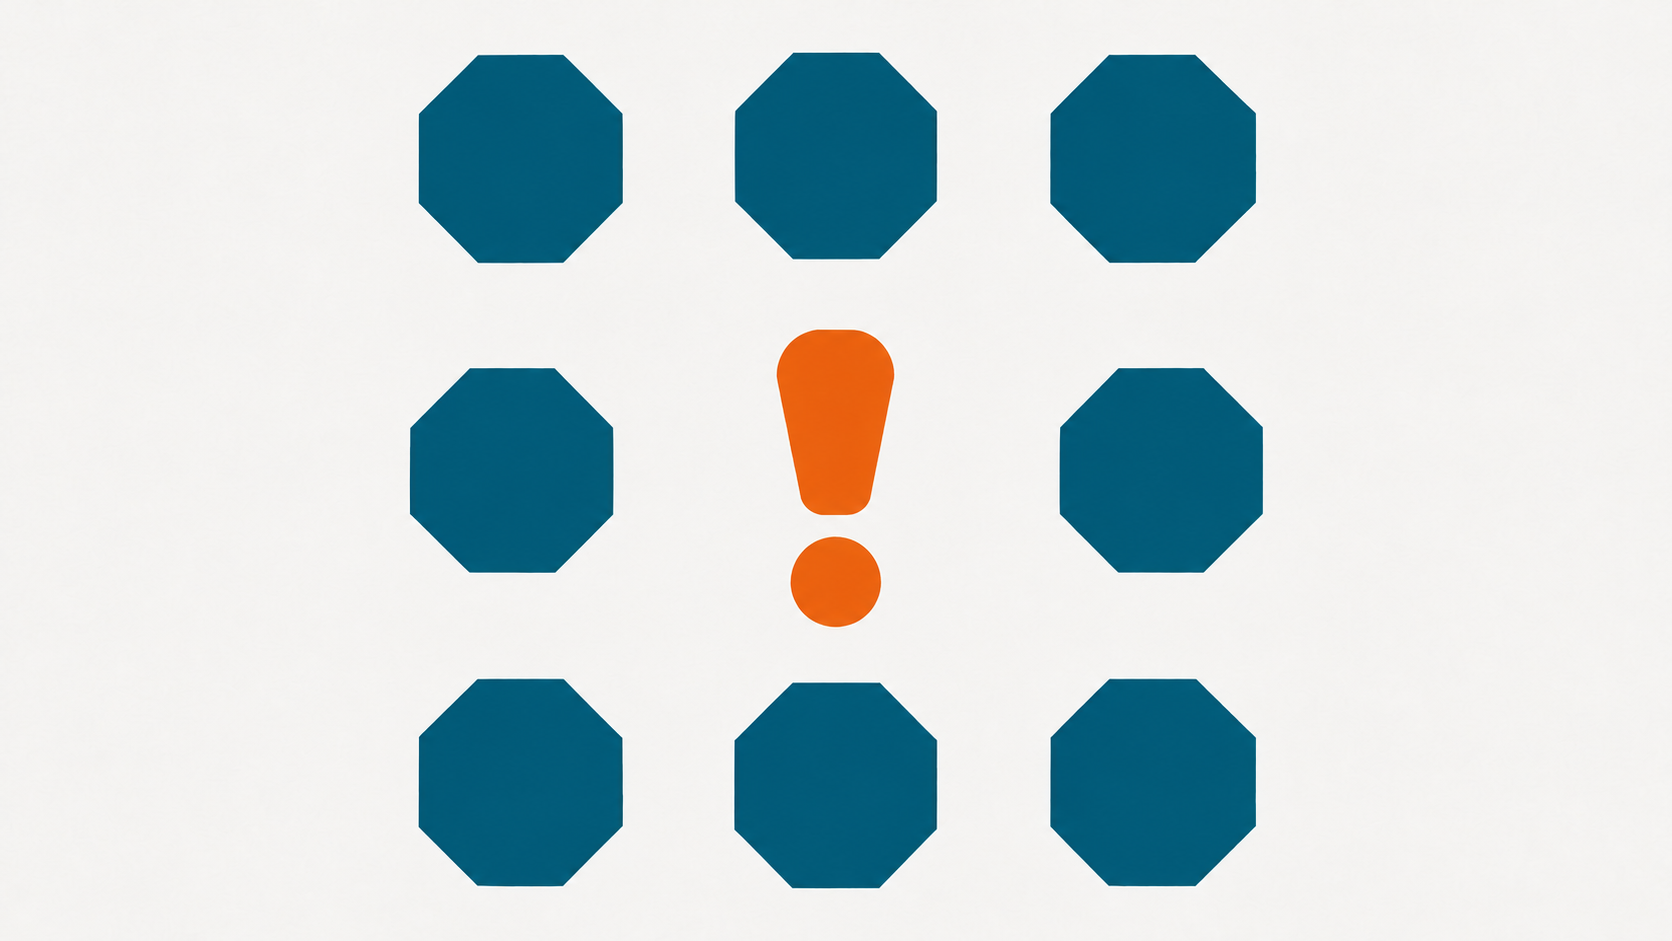
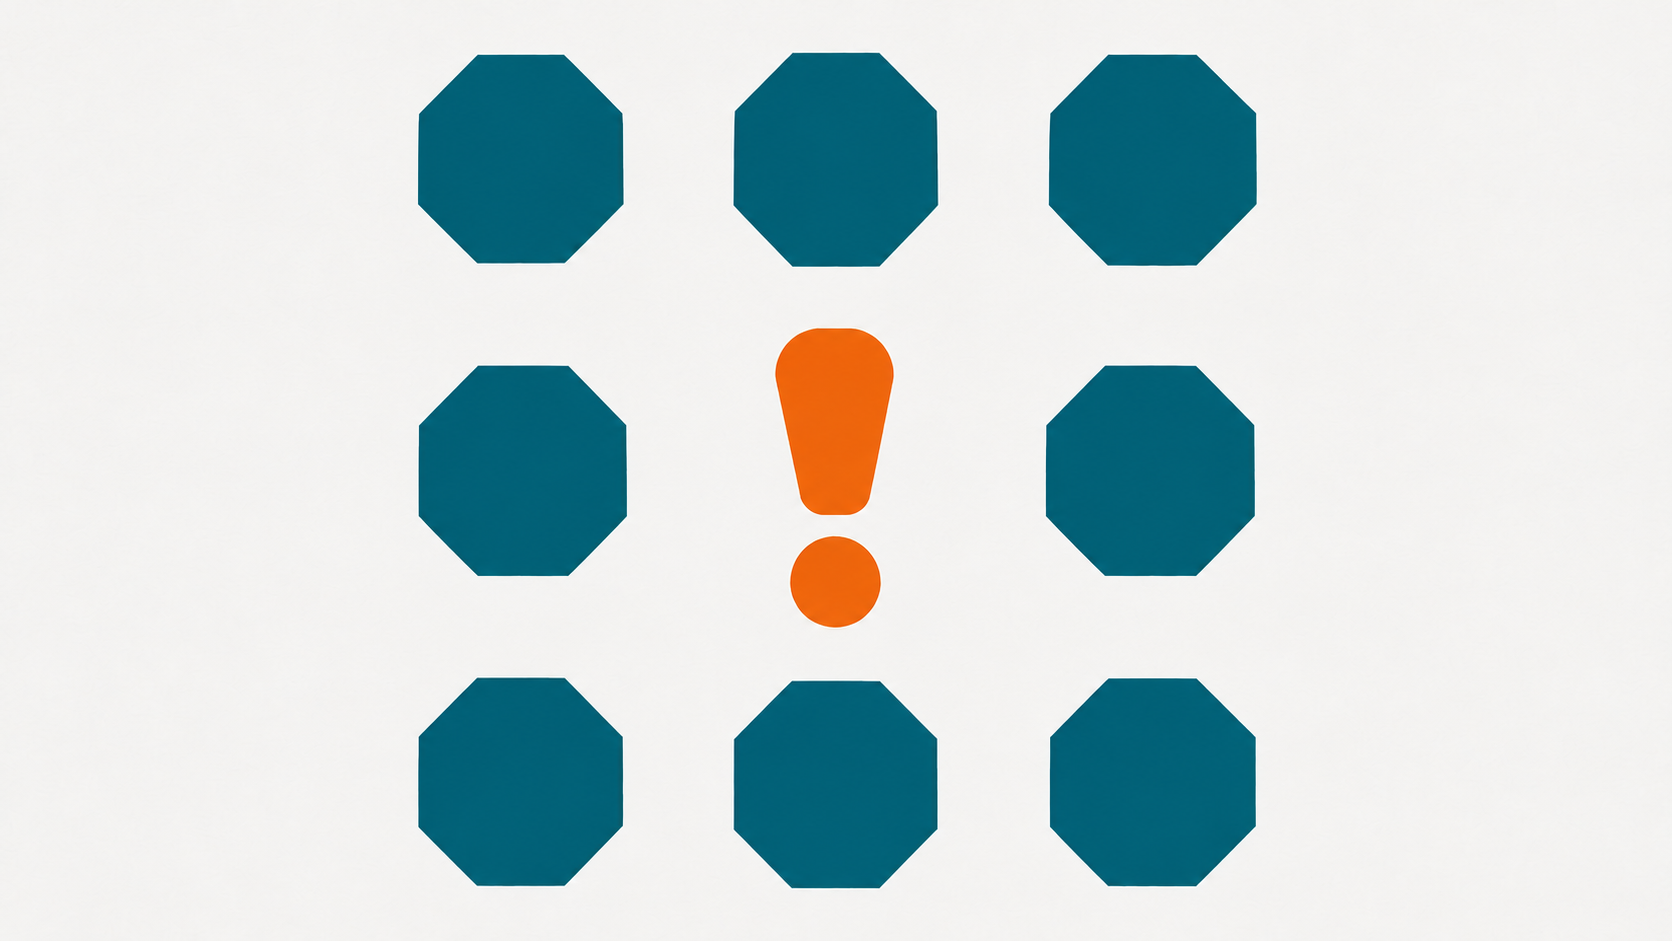
Refine breakthrough graphic spacing

diff --git a/index.html b/index.html
@@ -457,7 +457,7 @@
       <div class="hero-layout">
         <div class="reveal">
           <span class="eyebrow">Bullard Business Execution</span>
-          <h1>Ready to Move From More of the Same to Breakthrough Results?</h1>
+          <h1>Ready to move from More of the Same to Breakthrough Results?</h1>
           <p class="hero-lead">We help leaders move beyond the stories that limit what they see and what they believe is possible, so they can lead from commitment and produce breakthrough results.</p>
           <div class="hero-actions">
             <a class="button orange" href="lets-talk.html">Let's Talk</a>
